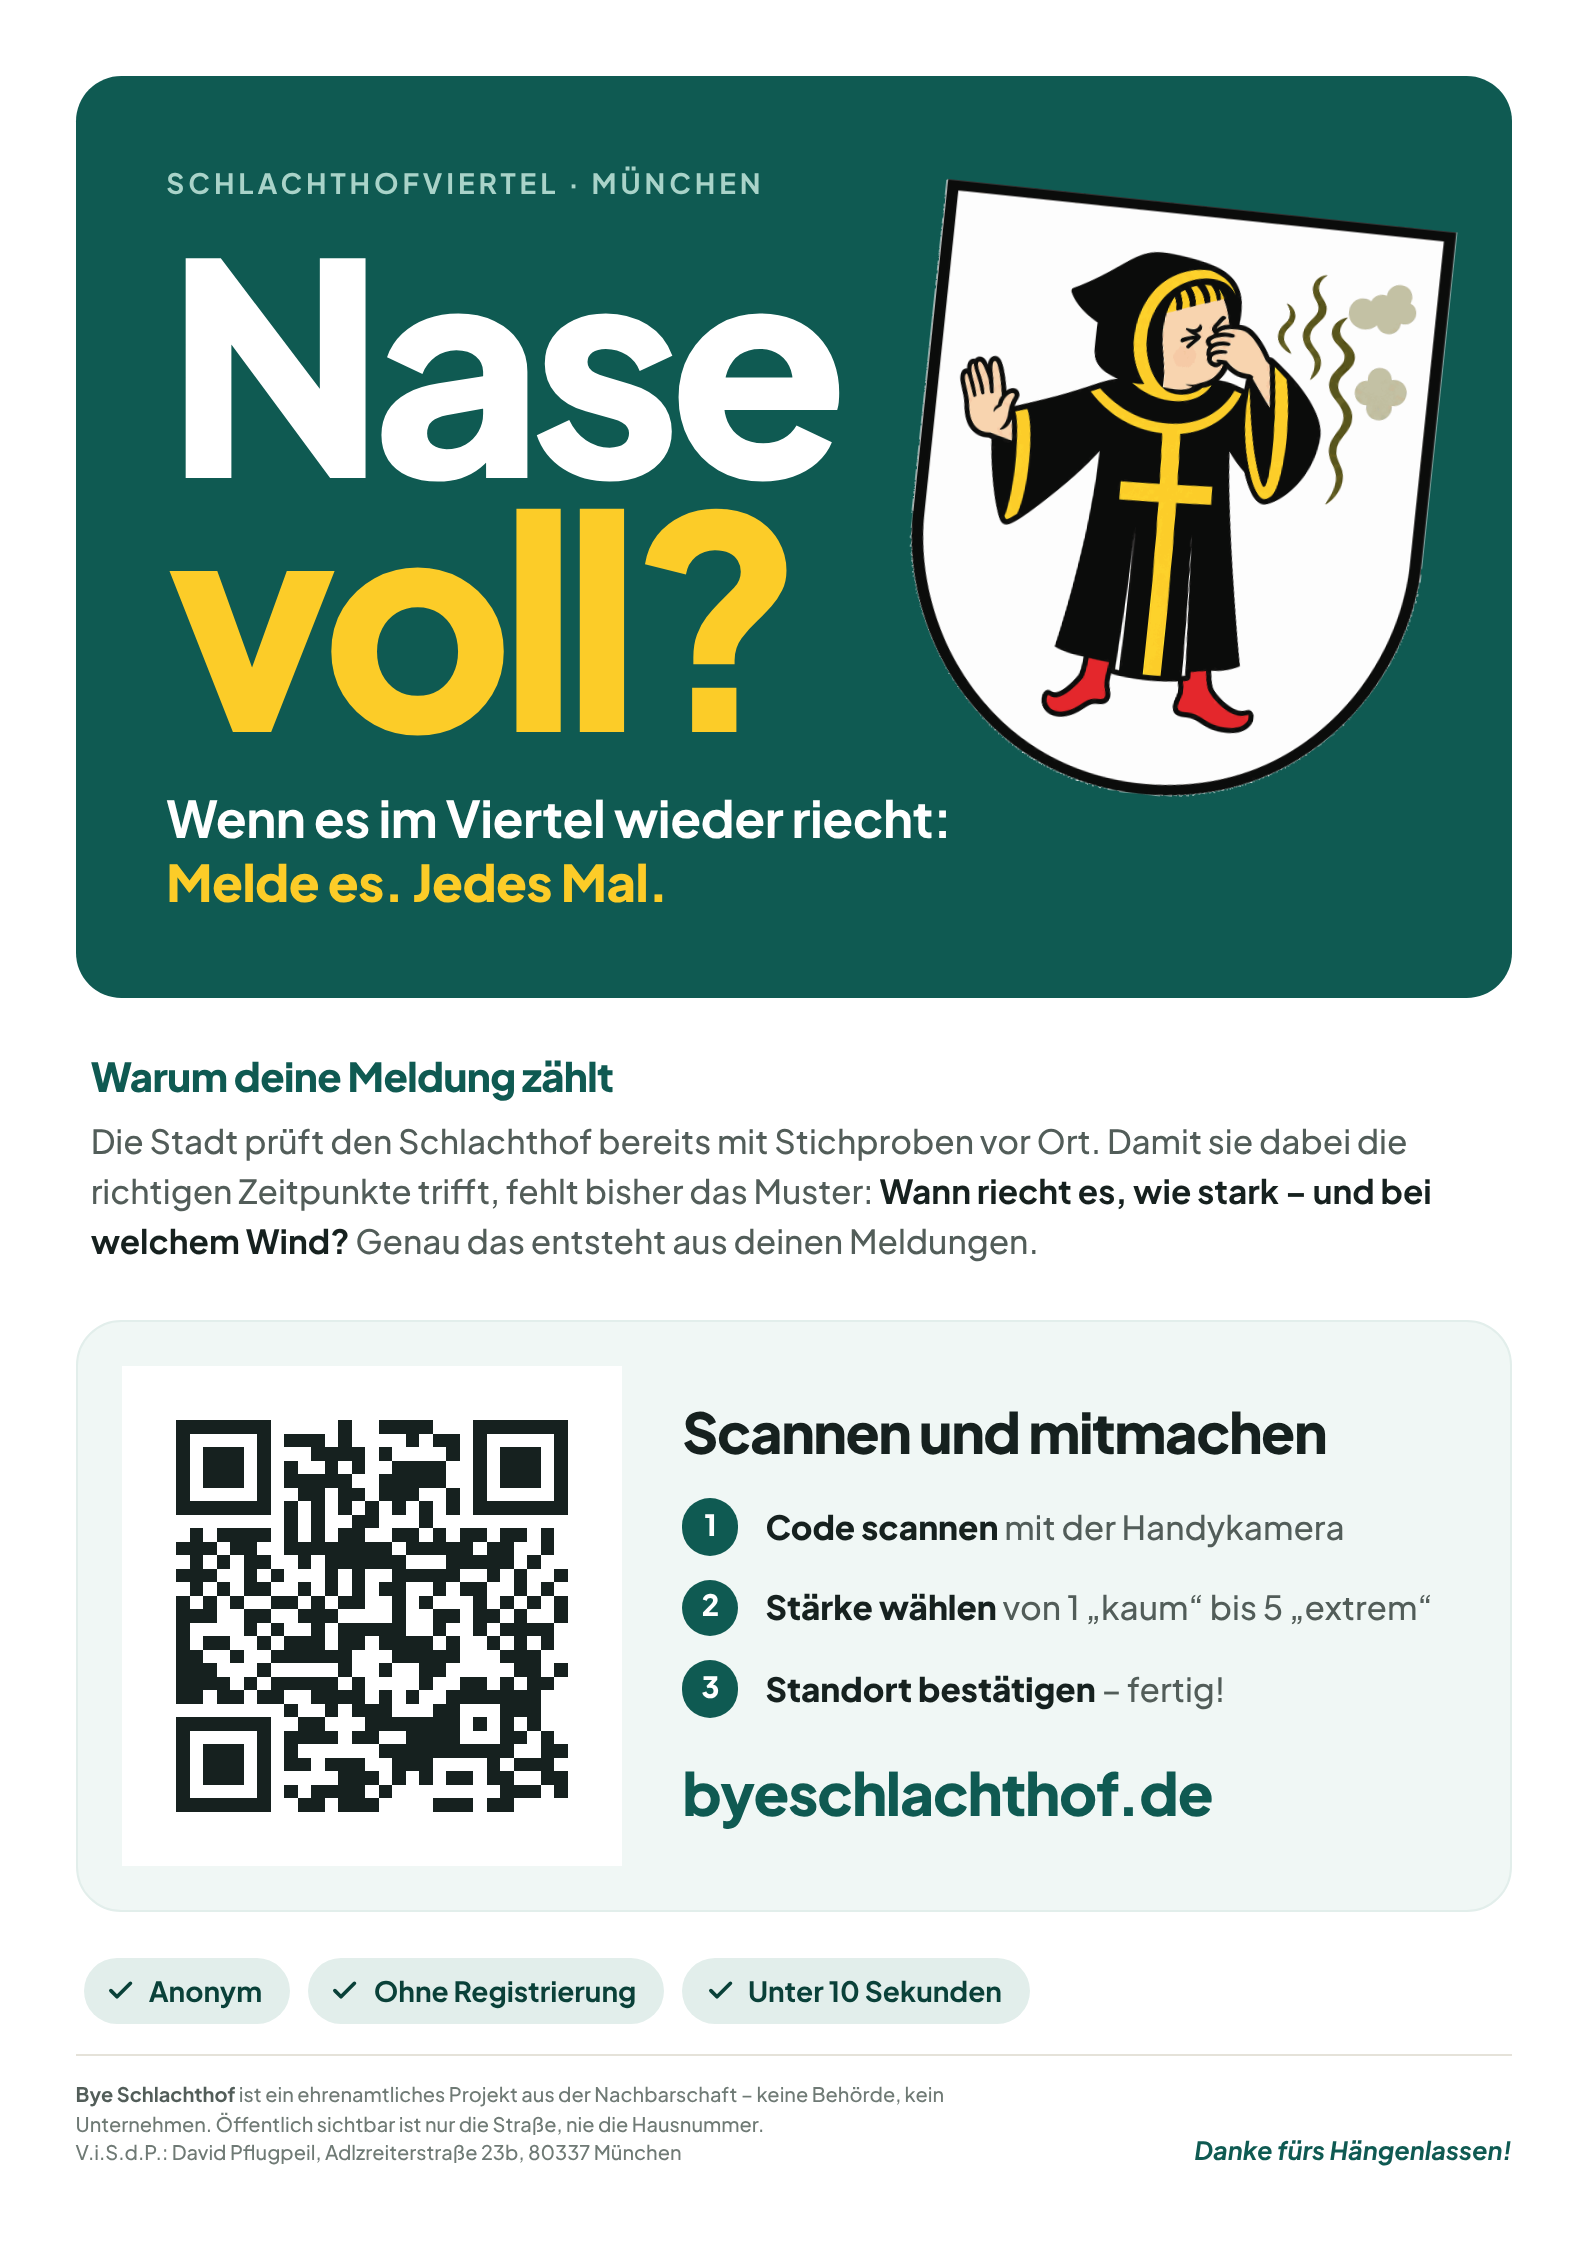
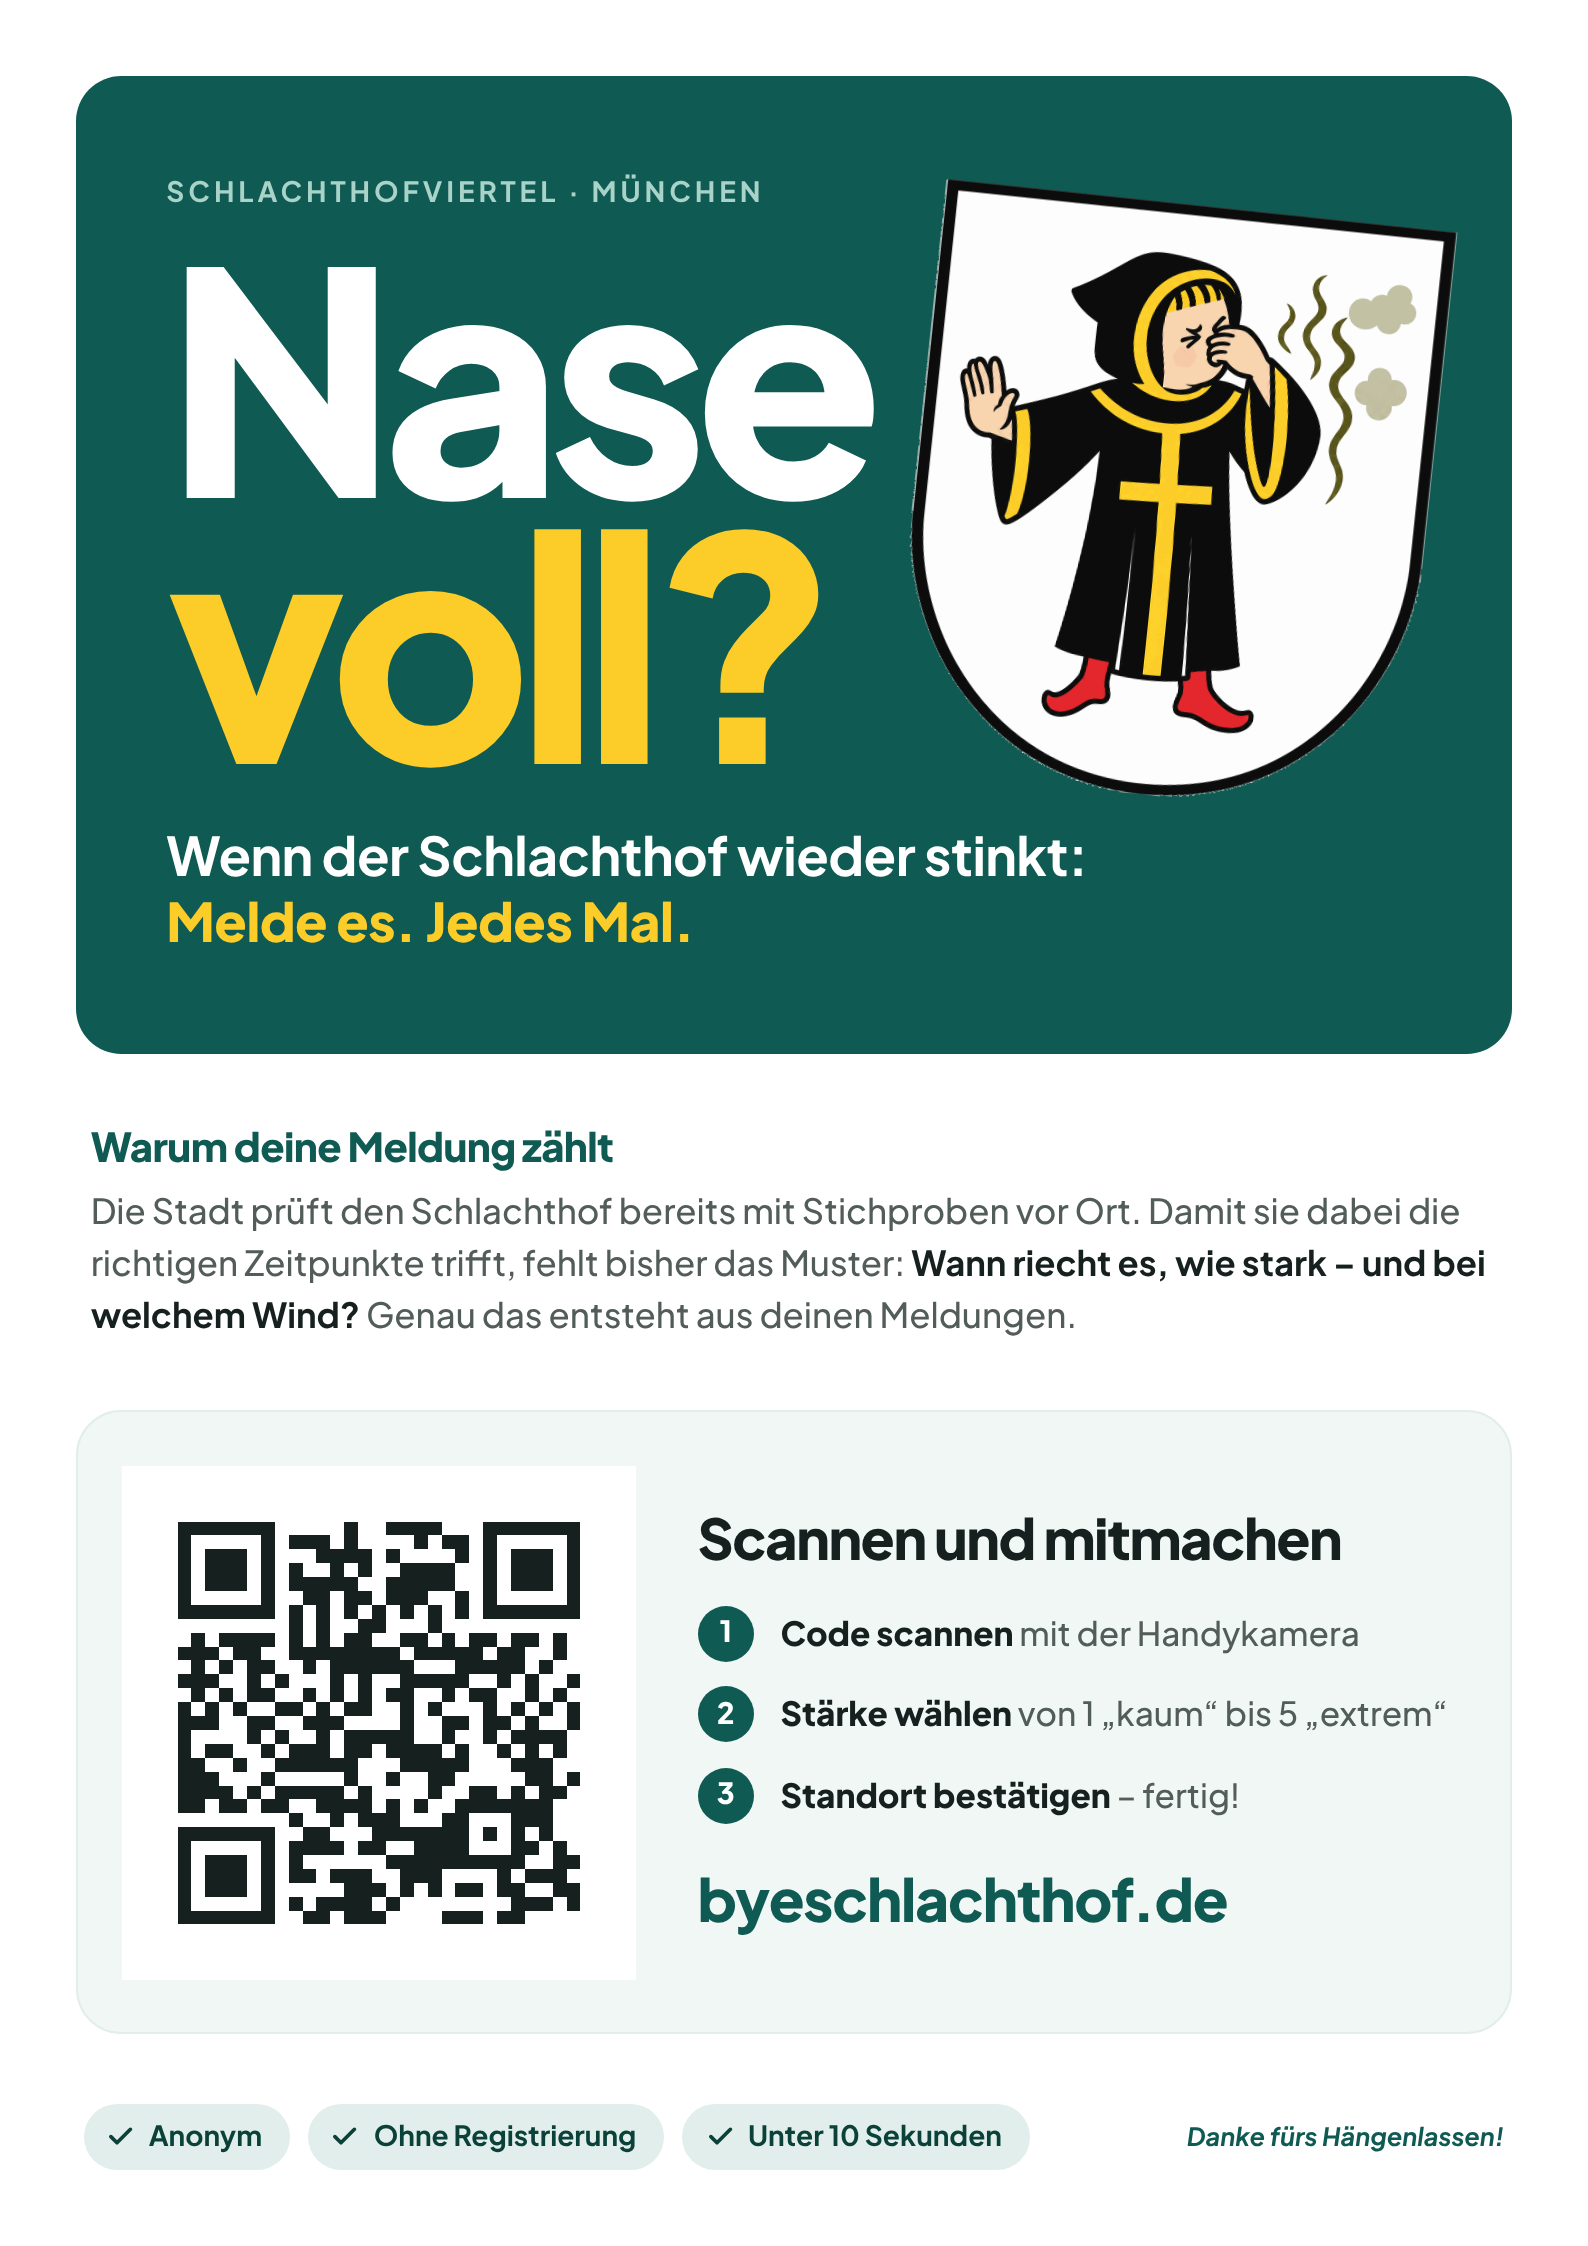
Sharpen the „Nase voll?“ flyer and drop its imprint
The hero now reads „Wenn der Schlachthof wieder stinkt: Melde es. Jedes
Mal.“ The footer paragraph is gone; the thanks moves onto the row with
the chips, and the freed space goes to the headline, the QR code (now
68 mm) and the gaps between sections.

Claude-Session: https://claude.ai/code/session_01RgyX8QwirbfS38tb5kM6UC

diff --git a/flyer/flyer.css b/flyer/flyer.css
@@ -251,7 +251,7 @@ img {
   font-weight: 700;
   color: var(--ink-soft);
 }
-.imprint .thanks {
+.thanks {
   flex-shrink: 0;
   font-size: 9.5pt;
   font-weight: 700;
@@ -266,7 +266,7 @@ img {
 
 .nase .hero {
   position: relative;
-  padding: 12mm 12mm 11mm;
+  padding: 13mm 12mm 13mm;
   border-radius: 6mm;
   background: var(--brand);
   color: #fff;
@@ -276,7 +276,7 @@ img {
 }
 .nase .hero h1 {
   margin-top: 4mm;
-  font-size: 39mm;
+  font-size: 41mm;
   font-weight: 800;
   line-height: 0.86;
   letter-spacing: -0.045em;
@@ -286,9 +286,8 @@ img {
   color: var(--kindl-yellow);
 }
 .nase .hero-lead {
-  max-width: 104mm;
   margin-top: 6.5mm;
-  font-size: 19pt;
+  font-size: 20pt;
   font-weight: 700;
   line-height: 1.25;
   letter-spacing: -0.01em;
@@ -306,7 +305,7 @@ img {
 }
 
 .nase .why {
-  margin-top: 7mm;
+  margin-top: 9mm;
   padding: 0 2mm;
 }
 .nase .why h2 {
@@ -317,7 +316,7 @@ img {
 }
 .nase .why p {
   margin-top: 2mm;
-  font-size: 12.5pt;
+  font-size: 13pt;
   line-height: 1.5;
   color: var(--ink-soft);
 }
@@ -330,14 +329,14 @@ img {
   display: flex;
   align-items: center;
   gap: 8mm;
-  margin-top: 7mm;
-  padding: 6mm 7mm 6mm 6mm;
+  margin-top: 9mm;
+  padding: 7mm 7mm 7mm 6mm;
   border-radius: 6mm;
   background: var(--brand-tint);
   border: 0.4mm solid var(--brand-soft);
 }
 .nase .cta .qr {
-  width: 66mm;
+  width: 68mm;
 }
 .nase .cta-title {
   font-size: 21pt;
@@ -353,13 +352,13 @@ img {
   font-size: 22pt;
 }
 
-.nase .chips {
-  margin-top: 6mm;
-  padding: 0 1mm;
-}
-
-.nase .imprint {
+.nase .closing {
+  display: flex;
+  align-items: center;
+  justify-content: space-between;
+  gap: 6mm;
   margin-top: auto;
+  padding: 0 1mm;
 }
 
 /* =========================================================================

diff --git a/flyer/nase-voll.html b/flyer/nase-voll.html
@@ -10,7 +10,7 @@
       <section class="hero">
         <p class="eyebrow">Schlachthofviertel · München</p>
         <h1>Nase<br /><em>voll?</em></h1>
-        <p class="hero-lead">Wenn es im Viertel wieder riecht: <strong>Melde es. Jedes Mal.</strong></p>
+        <p class="hero-lead">Wenn der Schlachthof wieder stinkt:<br /><strong>Melde es. Jedes Mal.</strong></p>
         <img class="hero-kindl" src="assets/kindl.png" alt="" />
       </section>
 
@@ -37,21 +37,14 @@
         </div>
       </section>
 
-      <ul class="chips">
-        <li><svg class="icon" viewBox="0 0 24 24"><path d="M20 6 9 17l-5-5" /></svg>Anonym</li>
-        <li><svg class="icon" viewBox="0 0 24 24"><path d="M20 6 9 17l-5-5" /></svg>Ohne Registrierung</li>
-        <li><svg class="icon" viewBox="0 0 24 24"><path d="M20 6 9 17l-5-5" /></svg>Unter 10&nbsp;Sekunden</li>
-      </ul>
-
-      <footer class="imprint">
-        <p>
-          <strong>Bye Schlachthof</strong> ist ein ehrenamtliches Projekt aus der Nachbarschaft –
-          keine Behörde, kein Unternehmen. Öffentlich sichtbar ist nur die Straße, nie die
-          Hausnummer.<br />
-          V.i.S.d.P.: David Pflugpeil, Adlzreiterstraße 23b, 80337 München
-        </p>
+      <div class="closing">
+        <ul class="chips">
+          <li><svg class="icon" viewBox="0 0 24 24"><path d="M20 6 9 17l-5-5" /></svg>Anonym</li>
+          <li><svg class="icon" viewBox="0 0 24 24"><path d="M20 6 9 17l-5-5" /></svg>Ohne Registrierung</li>
+          <li><svg class="icon" viewBox="0 0 24 24"><path d="M20 6 9 17l-5-5" /></svg>Unter 10&nbsp;Sekunden</li>
+        </ul>
         <p class="thanks">Danke fürs Hängenlassen!</p>
-      </footer>
+      </div>
     </main>
   </body>
 </html>

diff --git a/flyer/README.md b/flyer/README.md
@@ -35,10 +35,10 @@ was checked by decoding the rendered PDFs.
 
 ## Imprint
 
-Printed matter distributed in public names the person responsible
-(V.i.S.d.P.), the same person as in the website's imprint. Anyone else who
-distributes the flyers under their own name changes that line in the HTML
-files.
+„Jede Nase zählt.“ and the tear-off flyer name the person responsible
+(V.i.S.d.P.), the same person as in the website's imprint. „Nase voll?“
+carries no imprint line. Anyone else who distributes the flyers under their
+own name changes that line in the HTML files.
 
 ## Editing
 
